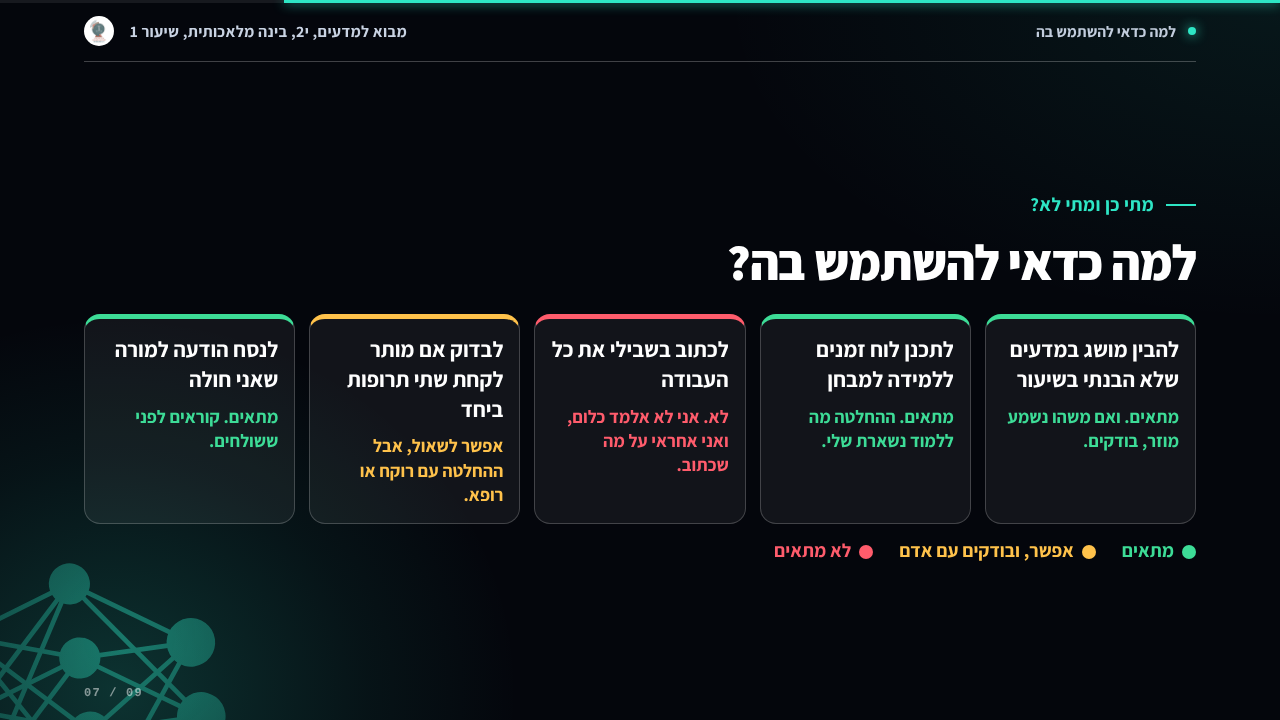
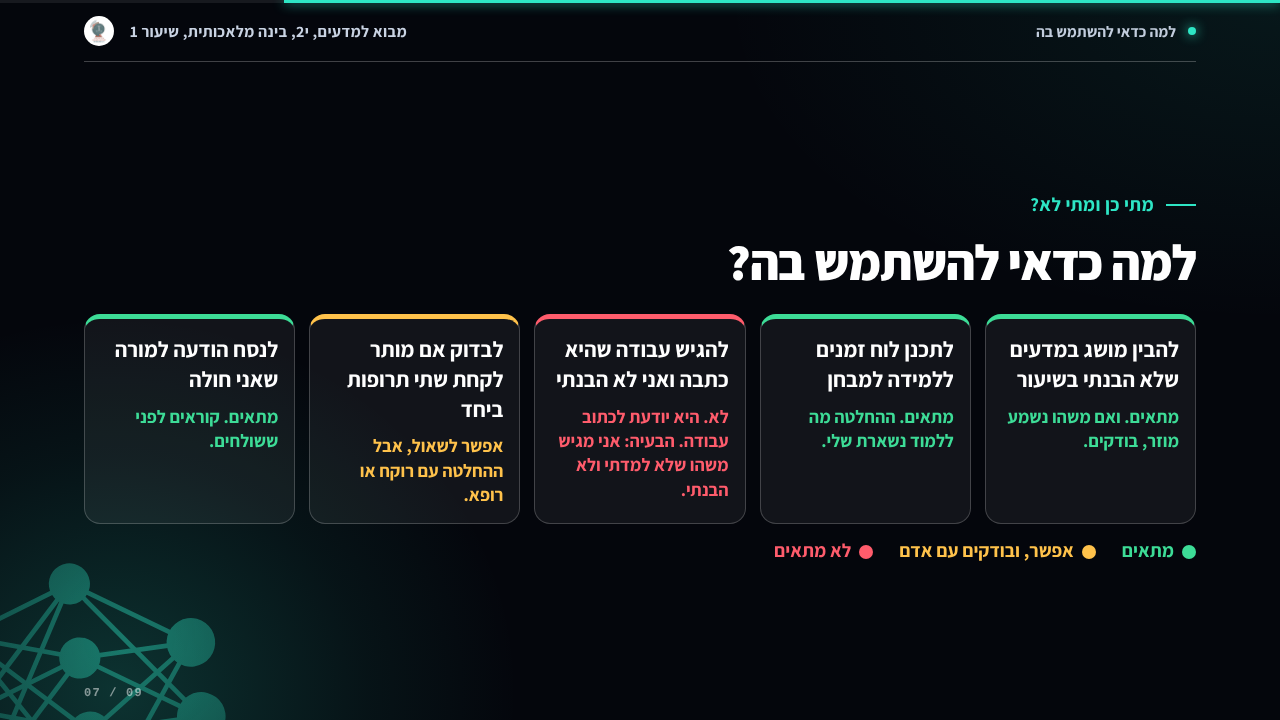
שיעור AI 1: חמשת תיקוני הביקורת — כללים מוגדרים מול דפוסים, מודל שפה גם מחפש, בלי קביעה על רגשות, הגשת עבודה שלא הבנתי, איך אדע אם ההסבר נכון; נקודת עצירה לשיעור של 45 דק׳
Claude-Session: https://claude.ai/code/session_01DiAJ2NWx5fVQYU5VBA93Vs

Changed region(s): [[0.4375, 0.4583, 0.5625, 0.7028]]

diff --git a/lessons/AI-01-מהי-בינה-מלאכותית.html b/lessons/AI-01-מהי-בינה-מלאכותית.html
@@ -552,6 +552,7 @@ ul.clean li+li{margin-top:20px}
 .today li::before{content:counter(t);flex:0 0 auto;display:grid;place-items:center;width:42px;height:42px;border-radius:50%;border:2px solid var(--ac);color:var(--ac);font-size:20px;font-weight:800}
 .concl{font-size:28px;font-weight:700;color:#fff;margin:22px 0 0}
 .concl em{font-style:normal;color:var(--ac)}
+.concl2{font-size:23px;font-weight:600;color:#C9D3E3;margin:6px 0 0}
 .lab{margin:0;font-size:20px;font-weight:800;color:var(--ac)}
 /* 2 */
 .demos{display:grid;grid-template-columns:repeat(4,1fr);gap:16px;width:100%}
@@ -687,7 +688,7 @@ html.ph #chrome::after{inset-inline:26px}
[1 lines of base64/hex data omitted]
 </div>
 
-<section data-min="2" data-ch="open" data-sec="פתיחה" data-title="מה נעשה היום" class="s" data-notes="&lt;b&gt;מה נעשה היום&lt;/b&gt;כל לחיצה מגלה שלב. לקרוא בקול. מבנה קבוע בכל שיעור.&lt;br&gt;זה השיעור הראשון ביחידה. בהמשך כל תלמיד יבנה בעזרת בינה מלאכותית עבודה מדעית על נושא שבחר.&lt;br&gt;">
+<section data-min="2" data-ch="open" data-sec="פתיחה" data-title="מה נעשה היום" class="s" data-notes="&lt;b&gt;מה נעשה היום&lt;/b&gt;זמן מתוכנן: כ-55 דקות. בשיעור של 45 דקות: עצירה אחרי „התוכנה היא לא אדם&amp;quot;, וההמשך (מיון, אתם מנסים, סיכום) בשיעור הבא. לא לקצר את „אתם מנסים&amp;quot;.&lt;br&gt;כל לחיצה מגלה שלב. לקרוא בקול. מבנה קבוע בכל שיעור.&lt;br&gt;זה השיעור הראשון ביחידה. בהמשך כל תלמיד יבנה בעזרת בינה מלאכותית עבודה מדעית על נושא שבחר.&lt;br&gt;">
   <p class="eyebrow anim">בינה מלאכותית, שיעור 1</p>
   <h2 class="ttl t-lg anim">מהי בינה מלאכותית,<br>ומה היא יודעת לעשות?</h2>
   <ol class="today mt"><li class="frag">מה Gemini יודע לעשות</li><li class="frag">תוכנה רגילה מול תוכנה שלמדה</li><li class="frag">מאגר תשובות או מודל שפה?</li><li class="frag">התוכנה היא לא אדם</li><li class="frag">למה כדאי להשתמש בה</li><li class="frag">אתם מנסים</li></ol>
@@ -713,20 +714,20 @@ html.ph #chrome::after{inset-inline:26px}
   <p class="frag concl">לכן קוראים לזה <em>בינה מלאכותית יוצרת</em>: היא יוצרת משהו חדש.</p>
 </section>
 
-<section data-min="5" data-ch="a" data-sec="תוכנה רגילה מול תוכנה שלמדה" data-title="תוכנה רגילה מול תוכנה שלמדה" class="s" data-notes="&lt;b&gt;תוכנה רגילה מול תוכנה שלמדה&lt;/b&gt;לחיצה 1: תוכנה רגילה. כלל שמתכנת כתב. לחיצה 2: בינה מלאכותית. טקסטים „נכנסים&amp;quot; לרשת, והרשת נדלקת. לחיצה 3: המונח „אימון&amp;quot;.&lt;br&gt;להדגיש: במחשבון, 2+2 תמיד 4. ב-Gemini, אותה שאלה יכולה לקבל תשובה אחרת. למה — בשיעור הבא.&lt;br&gt;„כמות עצומה&amp;quot;: לא נותנים מספר. בשיעור הבא מסבירים מה בדיוק היא לומדת.&lt;br&gt;מקורות: מחוון כשירויות בינה מלאכותית 2.0, על-יסודי, משרד החינוך (sources/), עמ׳ 6, תחום 1א: „כיצד פועלים כלי בינה מלאכותית… חיזוי המילה הבאה בטקסט&amp;quot;, „מהם מקורות המידע שלהם? אימון מודל, מאגרי מידע, רשת&amp;quot;, „מודלי שפה אינם ‚מבינים׳ את המידע כמו בני אדם&amp;quot;. Google, Machine Learning Crash Course, „Introduction to Large Language Models&amp;quot;.&lt;br&gt;">
+<section data-min="5" data-ch="a" data-sec="תוכנה רגילה מול תוכנה שלמדה" data-title="תוכנה רגילה מול תוכנה שלמדה" class="s" data-notes="&lt;b&gt;תוכנה רגילה מול תוכנה שלמדה&lt;/b&gt;לחיצה 1: תוכנה רגילה, שפועלת לפי כללים שהוגדרו מראש. לחיצה 2: בינה מלאכותית. טקסטים „נכנסים&amp;quot; לרשת, והרשת נדלקת. לחיצה 3: המונח „אימון&amp;quot;.&lt;br&gt;להדגיש: במחשבון, 2+2 תמיד 4. ב-Gemini, אותה שאלה יכולה לקבל תשובה אחרת. למה — בשיעור הבא.&lt;br&gt;„כמות עצומה&amp;quot;: לא נותנים מספר. בשיעור הבא מסבירים מה בדיוק היא לומדת.&lt;br&gt;דיוק: גם תוכנות רגילות יכולות להיות מורכבות מאוד, ולא כל מערכות ה-AI פועלות אותו דבר. ההבחנה כאן: כללים שהוגדרו מראש, מול דפוסים שנלמדו מנתונים.&lt;br&gt;מקורות: מחוון כשירויות בינה מלאכותית 2.0, על-יסודי, משרד החינוך (sources/), עמ׳ 6, תחום 1א: „כיצד פועלים כלי בינה מלאכותית… חיזוי המילה הבאה בטקסט&amp;quot;, „מהם מקורות המידע שלהם? אימון מודל, מאגרי מידע, רשת&amp;quot;, „מודלי שפה אינם ‚מבינים׳ את המידע כמו בני אדם&amp;quot;. Google, Machine Learning Crash Course, „Introduction to Large Language Models&amp;quot;.&lt;br&gt;">
   <p class="eyebrow anim">איך תוכנה יודעת מה לעשות?</p>
   <h2 class="ttl t-md anim">תוכנה רגילה מול תוכנה שלמדה</h2>
   <div class="vs2 mt">
     <div class="side frag hl-rule">
       <p class="lab">תוכנה רגילה, כמו מחשבון</p>
       <div class="code"><span>אם לחצו <b>+</b></span><span>חבר את שני המספרים</span></div>
-      <p class="cap">מתכנת כתב כל כלל מראש.<br>אותה בקשה, תמיד אותה תשובה.</p>
+      <p class="cap">פועלת לפי כללים שאנשים הגדירו מראש.<br>אותה בקשה, תמיד אותה תשובה.</p>
     </div>
     <div class="side frag hl-learn">
       <p class="lab">בינה מלאכותית</p>
       <div class="train"><div class="docs"><i style="--d:0.0s"></i><i style="--d:0.35s"></i><i style="--d:0.7s"></i><i style="--d:1.0499999999999998s"></i><i style="--d:1.4s"></i><i style="--d:1.75s"></i><i style="--d:2.0999999999999996s"></i><i style="--d:2.4499999999999997s"></i></div>
         <svg class="netm" viewBox="0 0 160 120"><line x1="20" y1="20" x2="80" y2="10"/><line x1="20" y1="20" x2="80" y2="45"/><line x1="20" y1="20" x2="80" y2="75"/><line x1="20" y1="20" x2="80" y2="110"/><line x1="20" y1="60" x2="80" y2="10"/><line x1="20" y1="60" x2="80" y2="45"/><line x1="20" y1="60" x2="80" y2="75"/><line x1="20" y1="60" x2="80" y2="110"/><line x1="20" y1="100" x2="80" y2="10"/><line x1="20" y1="100" x2="80" y2="45"/><line x1="20" y1="100" x2="80" y2="75"/><line x1="20" y1="100" x2="80" y2="110"/><line x1="80" y1="10" x2="140" y2="40"/><line x1="80" y1="10" x2="140" y2="80"/><line x1="80" y1="45" x2="140" y2="40"/><line x1="80" y1="45" x2="140" y2="80"/><line x1="80" y1="75" x2="140" y2="40"/><line x1="80" y1="75" x2="140" y2="80"/><line x1="80" y1="110" x2="140" y2="40"/><line x1="80" y1="110" x2="140" y2="80"/><circle cx="20" cy="20" r="7"/><circle cx="20" cy="60" r="7"/><circle cx="20" cy="100" r="7"/><circle cx="80" cy="10" r="7"/><circle cx="80" cy="45" r="7"/><circle cx="80" cy="75" r="7"/><circle cx="80" cy="110" r="7"/><circle cx="140" cy="40" r="7"/><circle cx="140" cy="80" r="7"/></svg></div>
-      <p class="cap">למדה מכמות עצומה של טקסטים שאנשים כתבו.<br>אף אחד לא כתב לה את התשובות.</p>
+      <p class="cap">למדה דפוסים מתוך כמות עצומה של טקסטים שאנשים כתבו.<br>אף אחד לא כתב לה את התשובות.</p>
     </div>
   </div>
   <p class="frag concl">לתהליך הזה קוראים <em>אימון</em>: התוכנה לומדת דפוסים מתוך דוגמאות.</p>
@@ -752,31 +753,32 @@ html.ph #chrome::after{inset-inline:26px}
       </div>
     </div>
   </div>
-  <p class="frag concl">מודל שפה לא מחפש תשובה מוכנה. הוא כותב תשובה חדשה בכל פעם.</p>
+  <p class="frag concl">מודל שפה לא שולף תשובה מוכנה ממגירה. הוא כותב אותה.</p>
+  <p class="frag concl2">לפעמים הוא גם מחפש ברשת, ואז כותב תשובה מתוך מה שמצא. על זה, בשיעור הבא.</p>
 </section>
 
-<section data-min="3" data-ch="b" data-sec="התוכנה היא לא אדם" data-title="התוכנה היא לא אדם" class="s" data-notes="&lt;b&gt;התוכנה היא לא אדם&lt;/b&gt;שקופית קלה, עם הומור. לשאול לפני כל שורה: „מי מהשניים עושה את זה?&amp;quot;&lt;br&gt;&lt;ul&gt;&lt;li&gt;מנהל שיחה: שניהם. בגלל זה קל לשכוח שמדברים עם תוכנה.&lt;/li&gt;&lt;li&gt;נעלב: לתוכנה אין רגשות. מותר לכתוב לה „טעית&amp;quot;.&lt;/li&gt;&lt;/ul&gt;⚠ ההומור מילולי: כל שורה נכונה כפשוטה.&lt;br&gt;מסמך האב, שיעור 1: „מדוע אין להסיק מהיכולת לנהל שיחה שהמערכת היא אדם?&amp;quot;&lt;br&gt;מקורות: מחוון כשירויות בינה מלאכותית 2.0, על-יסודי, משרד החינוך (sources/), עמ׳ 6, תחום 1א: „כיצד פועלים כלי בינה מלאכותית… חיזוי המילה הבאה בטקסט&amp;quot;, „מהם מקורות המידע שלהם? אימון מודל, מאגרי מידע, רשת&amp;quot;, „מודלי שפה אינם ‚מבינים׳ את המידע כמו בני אדם&amp;quot;. Google, Machine Learning Crash Course, „Introduction to Large Language Models&amp;quot;.&lt;br&gt;">
+<section data-min="3" data-ch="b" data-sec="התוכנה היא לא אדם" data-title="התוכנה היא לא אדם" class="s" data-notes="&lt;b&gt;התוכנה היא לא אדם&lt;/b&gt;שקופית קלה, עם הומור. לשאול לפני כל שורה: „מי מהשניים עושה את זה?&amp;quot;&lt;br&gt;&lt;ul&gt;&lt;li&gt;מנהל שיחה: שניהם. בגלל זה קל לשכוח שמדברים עם תוכנה.&lt;/li&gt;&lt;li&gt;אם תלמיד שואל „יש לה רגשות?&amp;quot;: „העובדה שהיא כותבת כמו אדם לא מוכיחה שיש לה רגשות כמו לאדם. מדענים עדיין מתווכחים על זה.&amp;quot; לא לקבוע „אין לה רגשות&amp;quot; כעובדה מוכרעת.&lt;/li&gt;&lt;/ul&gt;  (בשורות בטבלה בכוונה רק דברים שאפשר לבדוק: אוכל, שינה, גוף.)&lt;br&gt;⚠ ההומור מילולי: כל שורה נכונה כפשוטה.&lt;br&gt;מסמך האב, שיעור 1: „מדוע אין להסיק מהיכולת לנהל שיחה שהמערכת היא אדם?&amp;quot;&lt;br&gt;מקורות: מחוון כשירויות בינה מלאכותית 2.0, על-יסודי, משרד החינוך (sources/), עמ׳ 6, תחום 1א: „כיצד פועלים כלי בינה מלאכותית… חיזוי המילה הבאה בטקסט&amp;quot;, „מהם מקורות המידע שלהם? אימון מודל, מאגרי מידע, רשת&amp;quot;, „מודלי שפה אינם ‚מבינים׳ את המידע כמו בני אדם&amp;quot;. Google, Machine Learning Crash Course, „Introduction to Large Language Models&amp;quot;.&lt;br&gt;">
   <p class="eyebrow anim">רגע, מי זה?</p>
   <h2 class="ttl t-md anim">התוכנה היא לא אדם</h2>
   <div class="np mt">
     <div class="np-h"><span></span><span class="np-fig"><svg viewBox="0 0 200 230" width="190"><circle cx="100" cy="52" r="34" fill="#FFD7A8"/><circle cx="88" cy="48" r="4" fill="#1B2433"/><circle cx="112" cy="48" r="4" fill="#1B2433"/><path d="M86 64 Q100 76 114 64" stroke="#1B2433" stroke-width="4" fill="none" stroke-linecap="round"/><rect x="56" y="94" width="88" height="96" rx="30" fill="#5AA9E6"/><rect x="66" y="186" width="22" height="40" rx="9" fill="#1B3050"/><rect x="112" y="186" width="22" height="40" rx="9" fill="#1B3050"/></svg><b>אדם</b></span><span class="np-fig"><svg viewBox="0 0 200 230" width="190"><rect x="18" y="24" width="164" height="136" rx="14" fill="#1B3050" stroke="#8EC5FF" stroke-width="4"/><rect x="34" y="44" width="96" height="10" rx="5" fill="#8EC5FF" opacity=".85"/><rect x="48" y="66" width="78" height="10" rx="5" fill="#8EC5FF" opacity=".85"/><rect x="34" y="88" width="60" height="10" rx="5" fill="#8EC5FF" opacity=".85"/><rect x="48" y="110" width="96" height="10" rx="5" fill="#8EC5FF" opacity=".85"/><rect x="34" y="132" width="78" height="10" rx="5" fill="#8EC5FF" opacity=".85"/><rect x="146" y="132" width="6" height="16" fill="#8EC5FF"><animate attributeName="opacity" values="1;0;1" dur="1.1s" repeatCount="indefinite"/></rect><rect x="70" y="160" width="60" height="22" fill="#1B3050"/><rect x="40" y="182" width="120" height="14" rx="7" fill="#1B3050" stroke="#8EC5FF" stroke-width="3"/></svg><b>תוכנה</b></span></div>
-    <div class="np-r frag"><span class="np-t">אוכל פלאפל</span><span class="np-m y">✓</span><span class="np-m n">✗</span></div><div class="np-r frag"><span class="np-t">ישן בלילה</span><span class="np-m y">✓</span><span class="np-m n">✗</span></div><div class="np-r frag"><span class="np-t">נעלב כשמתקנים אותו</span><span class="np-m y">✓</span><span class="np-m n">✗</span></div><div class="np-r frag"><span class="np-t">מנהל שיחה</span><span class="np-m y">✓</span><span class="np-m y">✓</span></div>
+    <div class="np-r frag"><span class="np-t">אוכל פלאפל</span><span class="np-m y">✓</span><span class="np-m n">✗</span></div><div class="np-r frag"><span class="np-t">ישן בלילה</span><span class="np-m y">✓</span><span class="np-m n">✗</span></div><div class="np-r frag"><span class="np-t">יש לו גוף</span><span class="np-m y">✓</span><span class="np-m n">✗</span></div><div class="np-r frag"><span class="np-t">מנהל שיחה</span><span class="np-m y">✓</span><span class="np-m y">✓</span></div>
   </div>
   <p class="frag concl">התוכנה כותבת כמו אדם, כי היא למדה מטקסטים שאנשים כתבו. זה לא הופך אותה לאדם.</p>
 </section>
 
-<section data-min="5" data-ch="b" data-sec="למה כדאי להשתמש בה" data-title="למה כדאי להשתמש בה" class="s" data-notes="&lt;b&gt;למה כדאי להשתמש בה&lt;/b&gt;כל לחיצה מגלה משימה. לשאול קודם: „מתאים, לא מתאים, או צריך לבדוק עם מישהו?&amp;quot; ורק אז לחשוף (הצבע והמשפט מופיעים יחד עם המשימה; אפשר לכסות ביד).&lt;br&gt;מסמך האב, שיעור 1: „אילו משימות מתאימות לשימוש בבינה מלאכותית?&amp;quot; ושיעור 6 (מתי נדרשת התייעצות אנושית) — כאן רק טעימה.&lt;br&gt;תרופות: מחוון משרד החינוך, „ייעוץ בתחומים רגישים&amp;quot;. ההנחיות: „בינה מלאכותית אינה יכולה להחליף היוועצות עם מבוגר משמעותי&amp;quot;.&lt;br&gt;">
+<section data-min="5" data-ch="b" data-sec="למה כדאי להשתמש בה" data-title="למה כדאי להשתמש בה" class="s" data-notes="&lt;b&gt;למה כדאי להשתמש בה&lt;/b&gt;כל לחיצה מגלה משימה. לשאול קודם: „מתאים, לא מתאים, או צריך לבדוק עם מישהו?&amp;quot; ורק אז לחשוף (הצבע והמשפט מופיעים יחד עם המשימה; אפשר לכסות ביד).&lt;br&gt;העבודה: הבעיה אינה שהכלי יודע לכתוב, אלא הגשה של תוצר שהתלמיד לא למד ולא הבין (מחוון, תחום 4ג: גילוי נאות).&lt;br&gt;מסמך האב, שיעור 1: „אילו משימות מתאימות לשימוש בבינה מלאכותית?&amp;quot; ושיעור 6 (מתי נדרשת התייעצות אנושית) — כאן רק טעימה.&lt;br&gt;תרופות: מחוון משרד החינוך, „ייעוץ בתחומים רגישים&amp;quot;. ההנחיות: „בינה מלאכותית אינה יכולה להחליף היוועצות עם מבוגר משמעותי&amp;quot;.&lt;br&gt;">
   <p class="eyebrow anim">מתי כן ומתי לא?</p>
   <h2 class="ttl t-md anim">למה כדאי להשתמש בה?</h2>
-  <div class="tasks mt"><div class="tk frag ok"><b>להבין מושג במדעים שלא הבנתי בשיעור</b><span class="tv">מתאים. ואם משהו נשמע מוזר, בודקים.</span></div><div class="tk frag ok"><b>לתכנן לוח זמנים ללמידה למבחן</b><span class="tv">מתאים. ההחלטה מה ללמוד נשארת שלי.</span></div><div class="tk frag no"><b>לכתוב בשבילי את כל העבודה</b><span class="tv">לא. אני לא אלמד כלום, ואני אחראי על מה שכתוב.</span></div><div class="tk frag chk"><b>לבדוק אם מותר לקחת שתי תרופות ביחד</b><span class="tv">אפשר לשאול, אבל ההחלטה עם רוקח או רופא.</span></div><div class="tk frag ok"><b>לנסח הודעה למורה שאני חולה</b><span class="tv">מתאים. קוראים לפני ששולחים.</span></div></div>
+  <div class="tasks mt"><div class="tk frag ok"><b>להבין מושג במדעים שלא הבנתי בשיעור</b><span class="tv">מתאים. ואם משהו נשמע מוזר, בודקים.</span></div><div class="tk frag ok"><b>לתכנן לוח זמנים ללמידה למבחן</b><span class="tv">מתאים. ההחלטה מה ללמוד נשארת שלי.</span></div><div class="tk frag no"><b>להגיש עבודה שהיא כתבה ואני לא הבנתי</b><span class="tv">לא. היא יודעת לכתוב עבודה. הבעיה: אני מגיש משהו שלא למדתי ולא הבנתי.</span></div><div class="tk frag chk"><b>לבדוק אם מותר לקחת שתי תרופות ביחד</b><span class="tv">אפשר לשאול, אבל ההחלטה עם רוקח או רופא.</span></div><div class="tk frag ok"><b>לנסח הודעה למורה שאני חולה</b><span class="tv">מתאים. קוראים לפני ששולחים.</span></div></div>
   <div class="legend mt-s"><span class="ok">מתאים</span><span class="chk">אפשר, ובודקים עם אדם</span><span class="no">לא מתאים</span></div>
 </section>
 
-<section data-min="15" data-ch="b" data-sec="אתם מנסים" data-title="אתם מנסים" class="s" data-notes="&lt;b&gt;אתם מנסים&lt;/b&gt;עבודה אישית, כל תלמיד על מכשיר, Gemini בחשבון של משרד החינוך. משימה משמעותית: תופעה שהתלמיד באמת לא מבין.&lt;br&gt;⚠ רק אחרי אישור הורים (הנחיות משרד החינוך, ינואר 2026). בלי אישור: התלמיד בוחר תופעה, המורה מקליד אותה ב-Gemini על המקרן, והתלמיד כותב במחברת.&lt;br&gt;&lt;ul&gt;&lt;li&gt;„אני בכיתה י׳&amp;quot;: מראה שאפשר לבקש הסבר ברמה שמתאימה. בלי להרחיב — פרומפטים בשיעור 8.&lt;/li&gt;&lt;li&gt;„דבר אחד שהייתי רוצה לבדוק&amp;quot;: מכין את שיעור 3 (הזיות). לא לבדוק עכשיו.&lt;/li&gt;&lt;li&gt;מעבר בין התלמידים: מי שנתקע בבחירה — אחת מהרשימה.&lt;/li&gt;&lt;/ul&gt;">
+<section data-min="15" data-ch="b" data-sec="אתם מנסים" data-title="אתם מנסים" class="s" data-notes="&lt;b&gt;אתם מנסים&lt;/b&gt;עבודה אישית, כל תלמיד על מכשיר, Gemini בחשבון של משרד החינוך. משימה משמעותית: תופעה שהתלמיד באמת לא מבין.&lt;br&gt;⚠ רק אחרי אישור הורים (הנחיות משרד החינוך, ינואר 2026). בלי אישור: התלמיד בוחר תופעה, המורה מקליד אותה ב-Gemini על המקרן, והתלמיד כותב במחברת.&lt;br&gt;&lt;ul&gt;&lt;li&gt;„אני בכיתה י׳&amp;quot;: מראה שאפשר לבקש הסבר ברמה שמתאימה. בלי להרחיב — פרומפטים בשיעור 8.&lt;/li&gt;&lt;li&gt;„דבר אחד שהייתי רוצה לבדוק&amp;quot; ו„איך אדע אם ההסבר נכון?&amp;quot;: מעוררים חשיבה ביקורתית ומכינים את שיעור 3. רק לכתוב, לא לבדוק מקורות עכשיו. לשמוע 2–3 תשובות בקול.&lt;/li&gt;&lt;li&gt;מעבר בין התלמידים: מי שנתקע בבחירה — אחת מהרשימה.&lt;/li&gt;&lt;/ul&gt;">
   <p class="eyebrow anim">עבודה אישית, 15 דקות</p>
   <h2 class="ttl t-md anim">אתם מנסים</h2>
   <div class="task mt">
-    <ol class="steps"><li class="frag">פתחו את Gemini בחשבון של בית הספר.</li><li class="frag">בחרו תופעה מדעית שאתם לא מבינים.</li><li class="frag">בקשו מ-Gemini להסביר לכם אותה.</li><li class="frag">כתבו במחברת: מה הבנתי, ודבר אחד שהייתי רוצה לבדוק.</li></ol>
+    <ol class="steps"><li class="frag">פתחו את Gemini בחשבון של בית הספר.</li><li class="frag">בחרו תופעה מדעית שאתם לא מבינים.</li><li class="frag">בקשו מ-Gemini להסביר לכם אותה.</li><li class="frag">כתבו במחברת: מה הבנתי, ודבר אחד שהייתי רוצה לבדוק.</li><li class="frag">כתבו: איך אדע אם ההסבר שקיבלתי נכון?</li></ol>
     <div class="qlist frag"><p class="lab">אם אין לכם רעיון</p><p>למה הים מלוח?</p><p>איך עובד חיסון?</p><p>למה יש עונות בשנה?</p><p>איך מטוס נשאר באוויר?</p>
       <p class="pr">דוגמה לבקשה:<br>„הסבר לי למה הים מלוח. אני בכיתה י׳."</p></div>
   </div>
